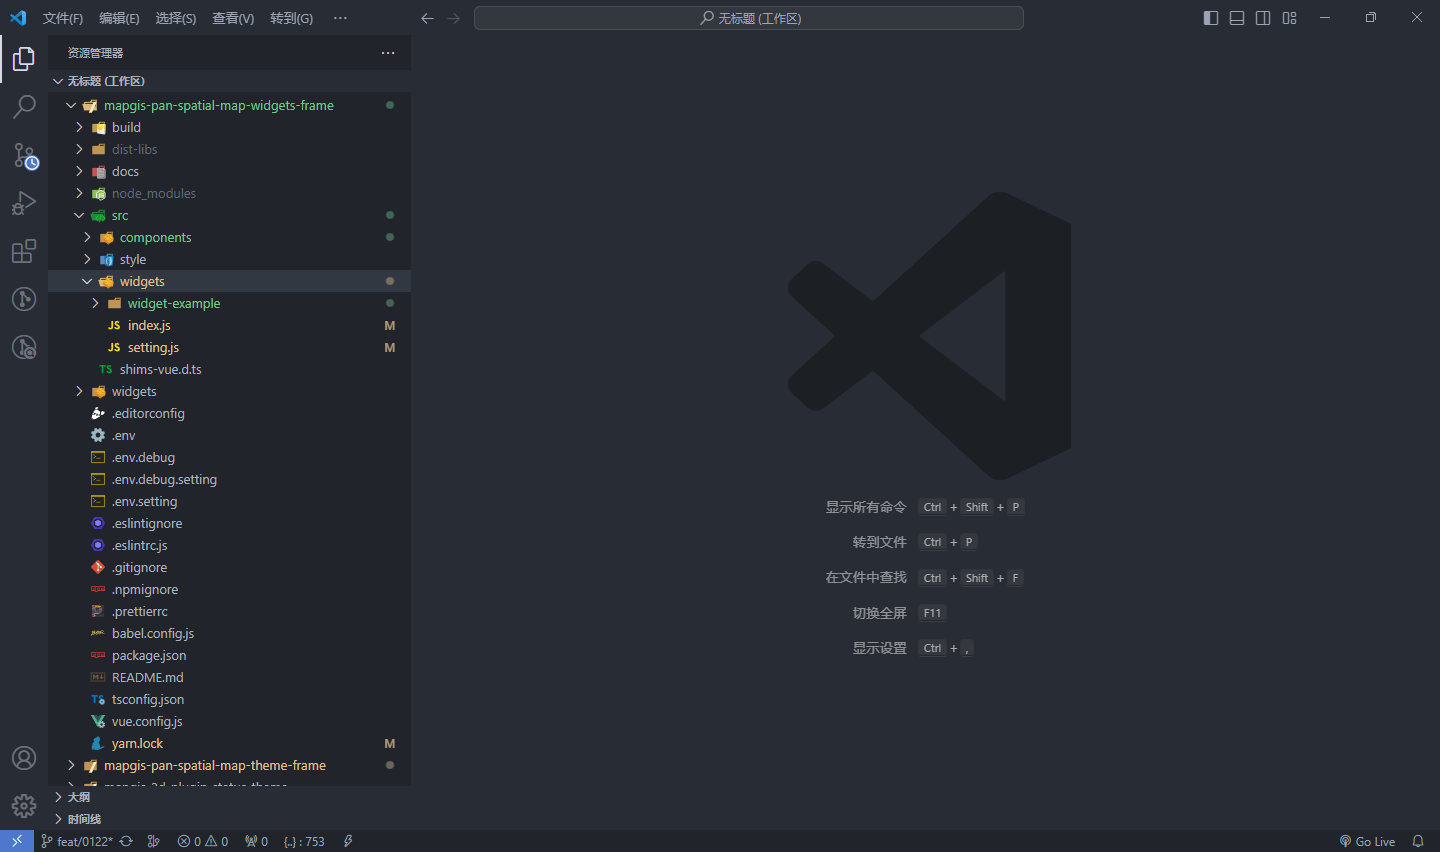
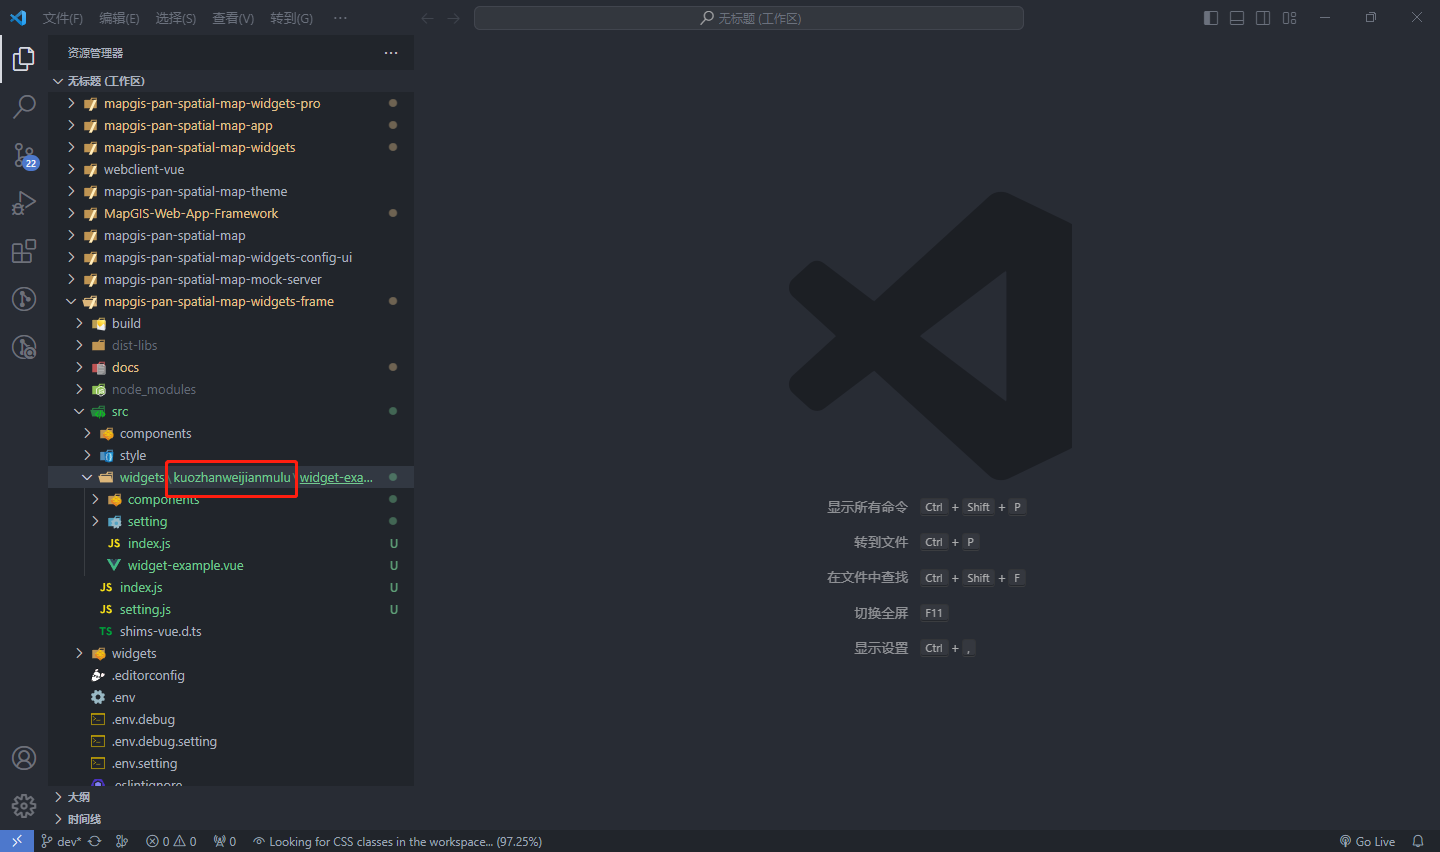
feat/0122:微件脚手架支持运行时加载 详细描述:优化脚手架结构

diff --git a/src/settings.js b/src/settings.js
@@ -1,14 +1,16 @@
-import { MpWidgetExample } from './widget-example'
+import './widgets/kuozhanweijianmulu/export'
 
-const widgets = [MpWidgetExample]
+import { WidgetExampleSetting } from './widgets/kuozhanweijianmulu/setting'
+
+const settings = [WidgetExampleSetting]
 
 const install = (Vue) => {
-  widgets.forEach((widget) => {
-    const registerName = widget.options ? widget.options.name : widget.name
+  settings.forEach((setting) => {
+    const registerName = setting.options ? setting.options.name : setting.name
     if (registerName in Vue.options.components) {
       console.warn(`发现同名组件${registerName},已取消该组件注册`)
     } else {
-      Vue.use(widget)
+      Vue.use(setting)
     }
   })
 }
@@ -17,7 +19,7 @@ if (typeof window !== 'undefined' && window['MapgisApplicationVueRuntime']) {
   install(window['MapgisApplicationVueRuntime'], {})
 }
 
-export { MpWidgetExample }
+export { WidgetExampleSetting }
 
 export default {
   install,

diff --git a/src/widgets.js b/src/widgets.js
@@ -1,0 +1,25 @@
+import './widgets/kuozhanweijianmulu/export'
+
+import * as exampleWidgets from './widgets/kuozhanweijianmulu/widgets'
+
+const widgets = { ...MpWidgetExample }
+
+const install = (Vue) => {
+  for (const name in widgets) {
+    const com = widgets[name]
+    const registerName = com.options ? com.options.name : com.name
+    if (registerName in Vue.options.components) {
+      console.log(`发现同名组件[${registerName}],已取消该组件的注册`)
+    } else {
+      Vue.component(registerName, com)
+    }
+  }
+}
+
+if (typeof window !== 'undefined' && window['MapgisApplicationVueRuntime']) {
+  install(window['MapgisApplicationVueRuntime'], {})
+}
+
+export default {
+  install,
+}

diff --git a/src/widgets/kuozhanweijianmulu/export.js b/src/widgets/kuozhanweijianmulu/export.js
@@ -1,0 +1,5 @@
+import { MpWidgetExample } from './widget-example'
+
+import { WidgetExampleSetting } from './widget-example/setting'
+
+export { MpWidgetExample, WidgetExampleSetting }

diff --git a/src/widgets/kuozhanweijianmulu/setting.js b/src/widgets/kuozhanweijianmulu/setting.js
@@ -1,0 +1,1 @@
+export { WidgetExampleSetting } from './widget-example/setting'

diff --git a/src/widgets/kuozhanweijianmulu/widgets.js b/src/widgets/kuozhanweijianmulu/widgets.js
@@ -1,0 +1,1 @@
+export { MpWidgetExample } from './widget-example'
